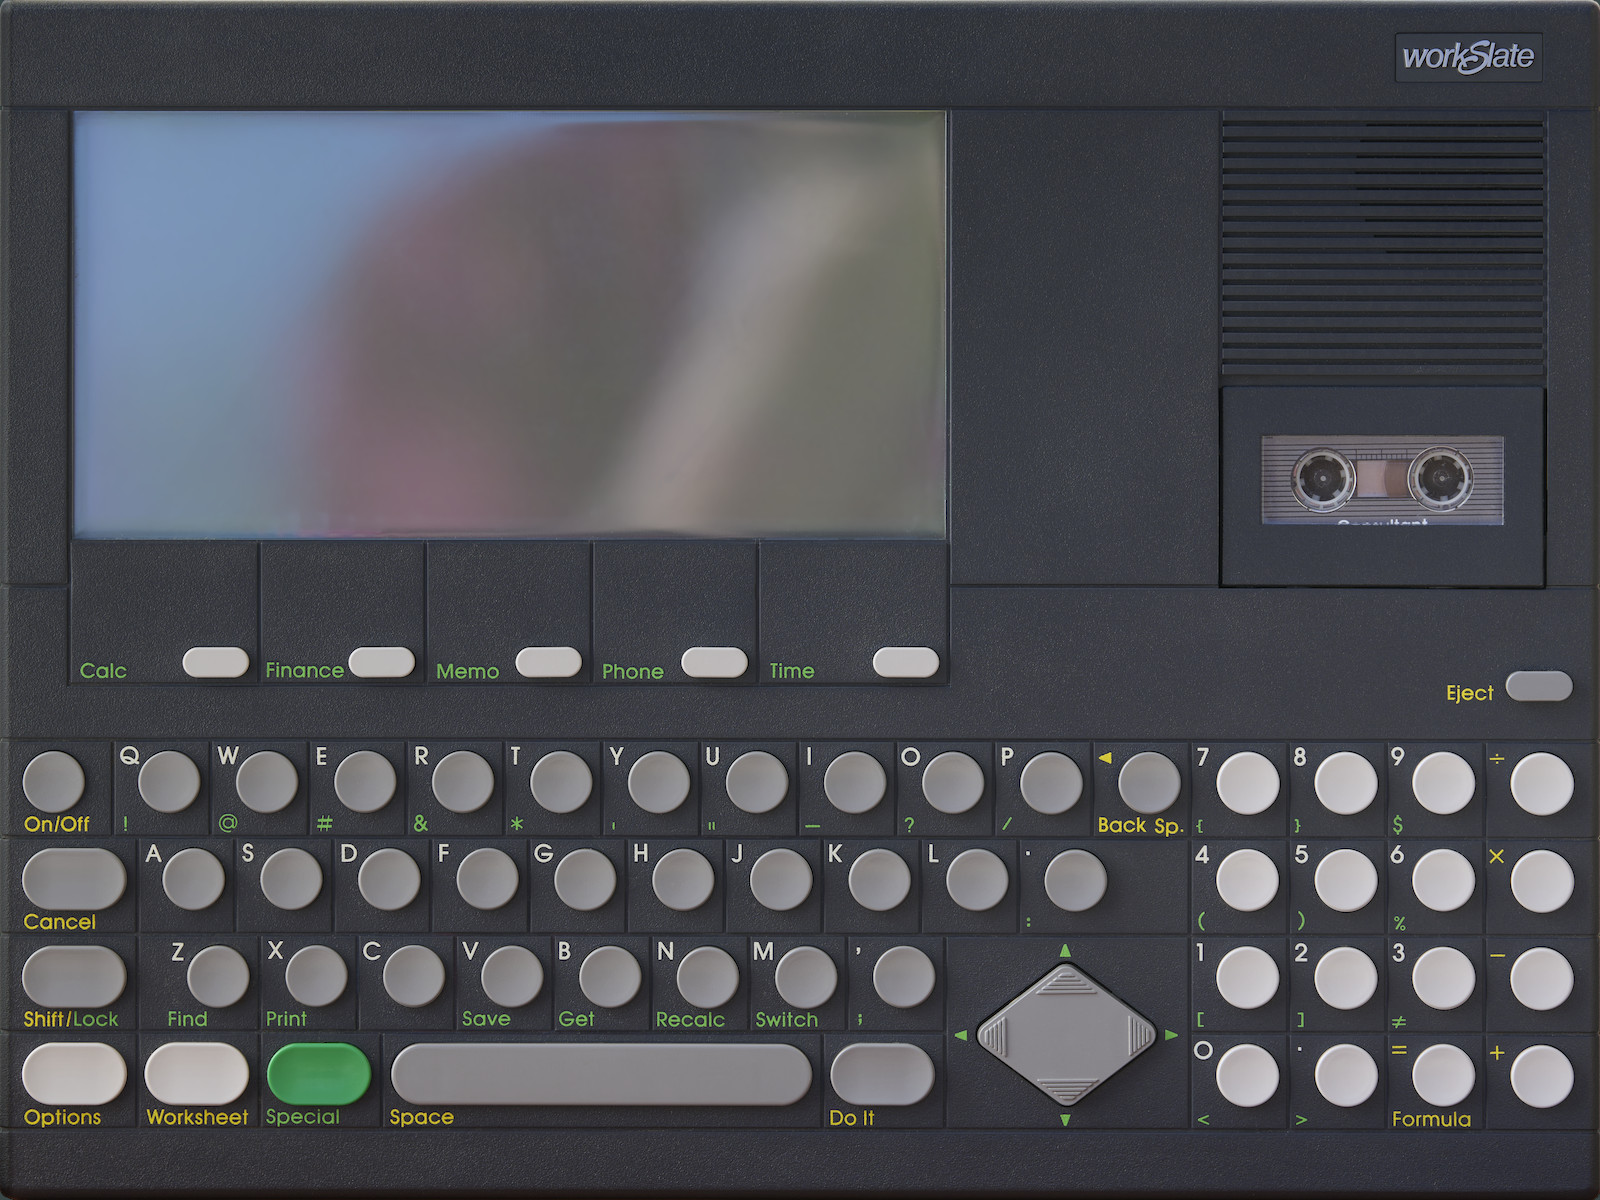
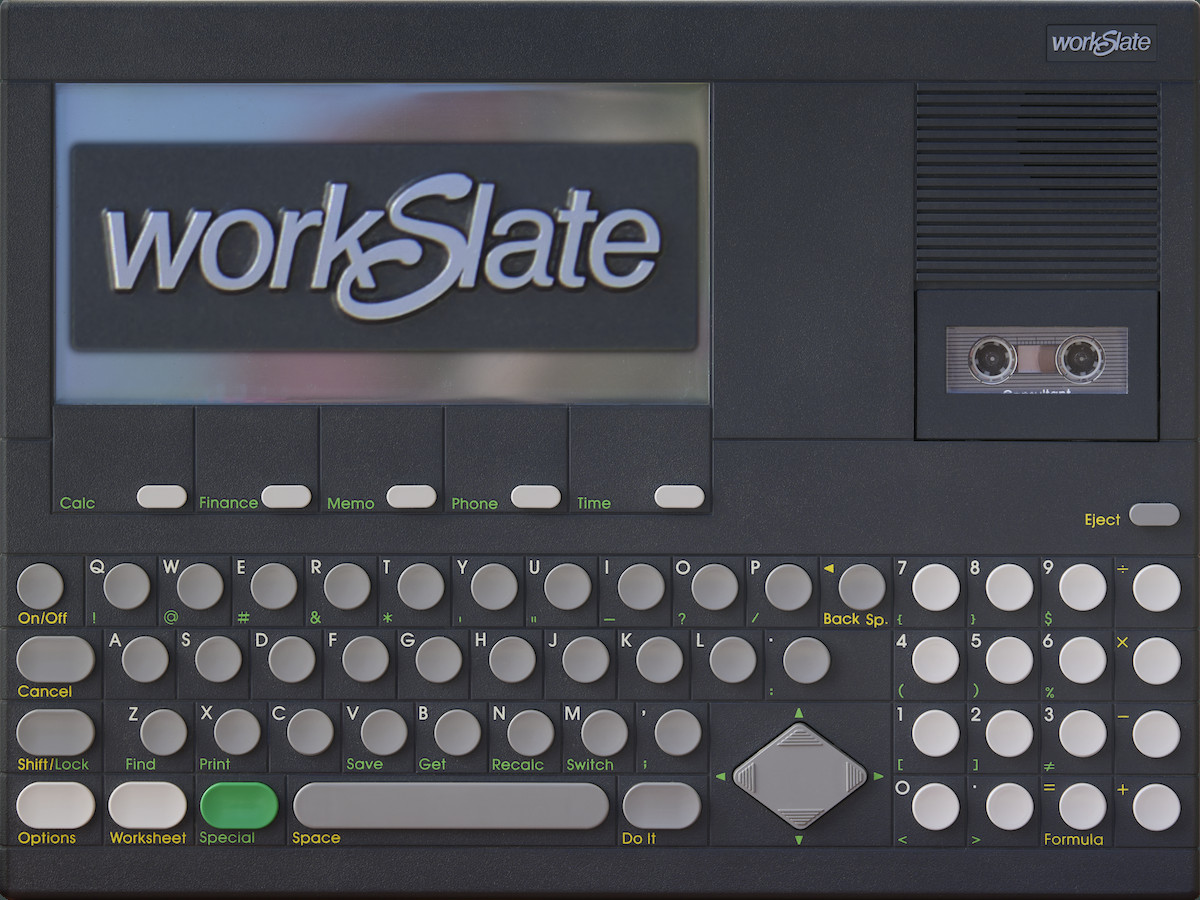
added on-screen keyboard, new background graphic

Changed region(s): [[0.0308, 0.1556, 0.5858, 0.4044], [0.0308, 0.7467, 0.0617, 0.7778]]

diff --git a/workslate.js b/workslate.js
@@ -21,21 +21,21 @@ function fetchBuffer(p){
 }
 function __ZN8Graphics18draw_cursor_alwaysEv(){
 	var tmp0=0,tmp1=0,tmp2=0;
-	tmp0=HEAP32[301778]|0;
-	tmp1=HEAP32[280356]|0;
-	tmp2=HEAP32[280357]|0;
-	if((HEAP32[297681]|0)!==0)if((tmp0|0)!==0){
+	tmp0=HEAP32[302072]|0;
+	tmp1=HEAP32[280650]|0;
+	tmp2=HEAP32[280651]|0;
+	if((HEAP32[297975]|0)!==0)if((tmp0|0)!==0){
 		__ZN8Graphics8drawCharEiic(tmp1,tmp2,160);
 		return;
 	}
-	__ZN8Graphics8drawCharEiic(tmp1,tmp2,HEAP8[(tmp1<<4)+tmp2+1121432>>0]|0);
+	__ZN8Graphics8drawCharEiic(tmp1,tmp2,HEAP8[(tmp1<<4)+tmp2+1122608>>0]|0);
 }
 function __ZN8Graphics8drawCharEiic(Larg0,Larg1,Larg2){
 	var tmp0=null,tmp1=null,tmp2=0,tmp3=0,tmp4=0,tmp5=0,tmp6=0,tmp7=null,tmp8=null,tmp9=-0.,tmp10=0,tmp11=0;
-	__ZN8Graphics9canvasCtxE.setTransform(3.1666666666666665,0,0,3.2890625,72,113.2890625);
+	__ZN8Graphics9canvasCtxE.setTransform(2.3333333333333335,0,0,2.375,60,91);
 	tmp7=__ZN8Graphics9canvasCtxE;
-	tmp0=1115840|0;
-	tmp1=1117945|0;
+	tmp0=1117024|0;
+	tmp1=1119125|0;
 	tmp8=_cheerpCreate_ZN6client6StringC2EPKc((Larg2<<24>-16777216?HEAP8:HEAP8),Larg2<<24>-16777216?tmp0>>0:tmp1>>0);
 	tmp7.fillStyle=tmp8;
 	tmp2=Larg1<<3;
@@ -46,7 +46,7 @@ function __ZN8Graphics8drawCharEiic(Larg0,Larg1,Larg2){
 	tmp5=__imul(Larg2&127,6)|0;
 	tmp10=0;
 	a:while(1){
-		tmp11=HEAP8[tmp10+tmp5+1115044>>0]|0;
+		tmp11=HEAP8[tmp10+tmp5+1116256>>0]|0;
 		tmp9=(+(tmp10+tmp3|0));
 		tmp6=tmp11^tmp4;
 		tmp11=0;
@@ -83,44 +83,44 @@ function _cheerpCreate_ZN6client6StringC2EPKc(Larg0,Marg0){
 }
 function __ZN8Graphics16initializeCanvasEv(){
 	var tmp0=null,tmp1=0,tmp2=null,tmp3=null,tmp4=0;
-	tmp2=_cheerpCreate_ZN6client6StringC2EPKc(HEAP8,1115036>>0);
+	tmp2=_cheerpCreate_ZN6client6StringC2EPKc(HEAP8,1116208>>0);
 	tmp0=document.getElementById(tmp2);
 	__ZN8Graphics12canvas_widthE=~~ +tmp0.width;
 	__ZN8Graphics13canvas_heightE=~~ +tmp0.height;
-	tmp2=_cheerpCreate_ZN6client6StringC2EPKc(HEAP8,1082248>>0);
+	tmp2=_cheerpCreate_ZN6client6StringC2EPKc(HEAP8,1116188>>0);
 	__ZN8Graphics6canvasE=document.getElementById(tmp2);
 	__ZN8Graphics6canvasE.width=(+(__ZN8Graphics12canvas_widthE|0));
 	__ZN8Graphics6canvasE.height=(+(__ZN8Graphics13canvas_heightE|0));
-	tmp2=_cheerpCreate_ZN6client6StringC2EPKc(HEAP8,1049464>>0);
+	tmp2=_cheerpCreate_ZN6client6StringC2EPKc(HEAP8,1083404>>0);
 	tmp3=document.getElementById(tmp2);
 	tmp3.appendChild(__ZN8Graphics6canvasE);
 	tmp2=__ZN8Graphics6canvasE;
-	tmp3=_cheerpCreate_ZN6client6StringC2EPKc(HEAP8,1116680>>0);
+	tmp3=_cheerpCreate_ZN6client6StringC2EPKc(HEAP8,1117864>>0);
 	__ZN8Graphics9canvasCtxE=tmp2.getContext(tmp3);
 	__ZN8Graphics9canvasCtxE.drawImage(tmp0,0,0);
 	tmp2=__ZN8Graphics9canvasCtxE;
-	tmp3=_cheerpCreate_ZN6client6StringC2EPKc(HEAP8,1115840>>0);
+	tmp3=_cheerpCreate_ZN6client6StringC2EPKc(HEAP8,1117024>>0);
 	tmp2.fillStyle=tmp3;
-	__ZN8Graphics9canvasCtxE.fillRect(72,111,874,421);
+	__ZN8Graphics9canvasCtxE.fillRect(54,83,656,320);
 	tmp4=0;
 	while(1){
 		tmp1=tmp4<<4;
-		HEAP8[tmp1+1121432>>0]=32;
-		HEAP8[tmp1+1+1121432>>0]=32;
-		HEAP8[tmp1+2+1121432>>0]=32;
-		HEAP8[tmp1+3+1121432>>0]=32;
-		HEAP8[tmp1+4+1121432>>0]=32;
-		HEAP8[tmp1+5+1121432>>0]=32;
-		HEAP8[tmp1+6+1121432>>0]=32;
-		HEAP8[tmp1+7+1121432>>0]=32;
-		HEAP8[tmp1+8+1121432>>0]=32;
-		HEAP8[tmp1+9+1121432>>0]=32;
-		HEAP8[tmp1+10+1121432>>0]=32;
-		HEAP8[tmp1+11+1121432>>0]=32;
-		HEAP8[tmp1+12+1121432>>0]=32;
-		HEAP8[tmp1+13+1121432>>0]=32;
-		HEAP8[tmp1+14+1121432>>0]=32;
-		HEAP8[tmp1+15+1121432>>0]=32;
+		HEAP8[tmp1+1122608>>0]=32;
+		HEAP8[tmp1+1+1122608>>0]=32;
+		HEAP8[tmp1+2+1122608>>0]=32;
+		HEAP8[tmp1+3+1122608>>0]=32;
+		HEAP8[tmp1+4+1122608>>0]=32;
+		HEAP8[tmp1+5+1122608>>0]=32;
+		HEAP8[tmp1+6+1122608>>0]=32;
+		HEAP8[tmp1+7+1122608>>0]=32;
+		HEAP8[tmp1+8+1122608>>0]=32;
+		HEAP8[tmp1+9+1122608>>0]=32;
+		HEAP8[tmp1+10+1122608>>0]=32;
+		HEAP8[tmp1+11+1122608>>0]=32;
+		HEAP8[tmp1+12+1122608>>0]=32;
+		HEAP8[tmp1+13+1122608>>0]=32;
+		HEAP8[tmp1+14+1122608>>0]=32;
+		HEAP8[tmp1+15+1122608>>0]=32;
 		tmp4=tmp4+1|0;
 		if((tmp4|0)!==46)continue;
 		break;
@@ -130,14 +130,17 @@ function __ZN8Graphics14init_callbacksEv(){
 	var tmp0=null,tmp1=null;
 	tmp0=__ZN8Graphics9sim_frameEv;
 	+requestAnimationFrame(tmp0);
-	tmp0=_cheerpCreate_ZN6client6StringC2EPKc(HEAP8,1115812>>0);
+	tmp0=_cheerpCreate_ZN6client6StringC2EPKc(HEAP8,1116216>>0);
 	tmp1=__ZN8Graphics14keyDownHandlerEPN6client13KeyboardEventE;
 	document.addEventListener(tmp0,tmp1);
-	tmp0=_cheerpCreate_ZN6client6StringC2EPKc(HEAP8,1115820>>0);
+	tmp0=_cheerpCreate_ZN6client6StringC2EPKc(HEAP8,1116224>>0);
 	tmp1=__ZN8Graphics12keyUpHandlerEPN6client13KeyboardEventE;
 	document.addEventListener(tmp0,tmp1);
-	tmp0=_cheerpCreate_ZN6client6StringC2EPKc(HEAP8,1115828>>0);
+	tmp0=_cheerpCreate_ZN6client6StringC2EPKc(HEAP8,1116232>>0);
 	tmp1=__ZN8Graphics15keyPressHandlerEPN6client13KeyboardEventE;
+	document.addEventListener(tmp0,tmp1);
+	tmp0=_cheerpCreate_ZN6client6StringC2EPKc(HEAP8,1116244>>0);
+	tmp1=__ZN8Graphics16mouseDownHandlerEPN6client10MouseEventE;
 	document.addEventListener(tmp0,tmp1);
 }
 function __ZN8Graphics9sim_frameEv(){
@@ -155,21 +158,21 @@ function __ZN8Graphics9sim_frameEv(){
 		if(Lconv10-tmp6>>>0<=500)if(!(tmp7))break a;
 		__ZZN8Graphics22blink_cursor_if_neededEyE17prev_milliseconds$p0=Lconv10;
 		__ZZN8Graphics22blink_cursor_if_neededEyE17prev_milliseconds$p1=Lconv;
-		tmp6=HEAP32[301778]|0;
-		HEAP32[301778]=(tmp6|0)===0?1:0;
-		if((HEAP32[297681]|0)!==0){
-			tmp7=HEAP32[280356]|0;
-			tmp2=HEAP32[280357]|0;
+		tmp6=HEAP32[302072]|0;
+		HEAP32[302072]=(tmp6|0)===0?1:0;
+		if((HEAP32[297975]|0)!==0){
+			tmp7=HEAP32[280650]|0;
+			tmp2=HEAP32[280651]|0;
 			if((tmp6|0)===0){
 				tmp6=160;
 			}else{
-				tmp6=HEAP8[(tmp7<<4)+tmp2+1121432>>0]|0;
+				tmp6=HEAP8[(tmp7<<4)+tmp2+1122608>>0]|0;
 			}
 			__ZN8Graphics8drawCharEiic(tmp7,tmp2,tmp6);
 		}
 	}
 	Lconv=___udivti3(Lconv10,Lconv)|0;
-	Lconv10=HEAP32[280542]|0;
+	Lconv10=HEAP32[280836]|0;
 	if(((__ZZN8Graphics21advance_rtc_if_neededEyE12prev_seconds$p0|0)^Lconv|(__ZZN8Graphics21advance_rtc_if_neededEyE12prev_seconds$p1|0)^Lconv10|0)!==0){
 		__Z10rtc_updateP8timespec();
 		__ZZN8Graphics21advance_rtc_if_neededEyE12prev_seconds$p0=Lconv;
@@ -588,6 +591,43 @@ function __ZN8Graphics15keyPressHandlerEPN6client13KeyboardEventE(Larg0){
 		__Z13push_kbd_fifoj(0);
 	}
 }
+function __ZN8Graphics16mouseDownHandlerEPN6client10MouseEventE(Larg0){
+	var tmp0=-0.,tmp1=-0.,tmp2=-0.,tmp3=-0.,tmp4=0,Lkeylookup$poptgep$poptgep$poptgepsqueezed=0;
+	if(((getKeyboardActive())|0)!==0){
+		tmp0=+Larg0.offsetX;
+		tmp1=+Larg0.offsetY;
+		tmp4=0;
+		while(1){
+			if((tmp4|0)!==72){
+				Lkeylookup$poptgep$poptgep$poptgepsqueezed=(tmp4<<4)+1049312|0;
+				tmp2=tmp0-(+(HEAP32[Lkeylookup$poptgep$poptgep$poptgepsqueezed>>2]|0));
+				tmp3=tmp1-(+(HEAP32[4+Lkeylookup$poptgep$poptgep$poptgepsqueezed>>2]|0));
+				if(tmp2*tmp2+tmp3*tmp3<(+(HEAP32[8+Lkeylookup$poptgep$poptgep$poptgepsqueezed>>2]|0))){
+					Lkeylookup$poptgep$poptgep$poptgepsqueezed=HEAP32[12+Lkeylookup$poptgep$poptgep$poptgepsqueezed>>2]|0;
+				}else{
+					Lkeylookup$poptgep$poptgep$poptgepsqueezed=0;
+				}
+				if((Lkeylookup$poptgep$poptgep$poptgepsqueezed|0)===0){
+					tmp4=tmp4+1|0;
+					continue;
+				}
+				if(Larg0.shiftKey){
+					__Z13push_kbd_fifoj(65536);
+					tmp4=65536;
+				}else{
+					tmp4=0;
+				}
+				if(Larg0.altKey){
+					tmp4|=131072;
+					__Z13push_kbd_fifoj(tmp4);
+				}
+				__Z13push_kbd_fifoj(tmp4|Lkeylookup$poptgep$poptgep$poptgepsqueezed);
+				__Z13push_kbd_fifoj(0);
+			}
+			break;
+		}
+	}
+}
 function __ZL17do_syscall_writevPK5iovecl(Lios,Llen){
 	var tmp0=null,tmp0o=0,Lmask$p1$pi=0,Lbuilder$psroa$p0$p047=null,L__ret$p049=0,Li$p048=0,Lios$poptgep=0,Li15$p054=0,L$psink$pi=0,Lconv$pi=0,Lcall$pi=null;
 	if(!(__ZGVZL17do_syscall_writevPK5ioveclE4curr|0)){
@@ -654,7 +694,7 @@ function __ZL17do_syscall_writevPK5iovecl(Lios,Llen){
 	}else{
 		L__ret$p049=0;
 	}
-	Lcall$pi=_cheerpCreate_ZN6client6StringC2EPKc(HEAP8,1117632>>0);
+	Lcall$pi=_cheerpCreate_ZN6client6StringC2EPKc(HEAP8,1118812>>0);
 	Lbuilder$psroa$p0$p047=Lbuilder$psroa$p0$p047.split(Lcall$pi);
 	Li$p048=Lbuilder$psroa$p0$p047.length;
 	if((Li$p048|0)>1){

diff --git a/workslate.html b/workslate.html
@@ -94,6 +94,7 @@
     <!-- Tab Content - simulator -->
     <div id="simulator_tab" class="tabcontent">
       <br>
+      <strong>Warning: this simulator has calculation errors</strong>
       <!-- The WASM will attach the canvas here (to "simulator_tab") -->
     </div>
 
@@ -146,7 +147,12 @@
       </ul> </p>
 
       <br><h2>Using the Simulator</h2>
-      <p>You can't click on the keys yet, so use these substitutions on your keyboard to control the WorkSlate:
+      <p>To enter text, you can click the on-screen keyboard:
+      <ul>
+         <li>The on/off, <strong style="bold;color:#d3c539">Shift/</strong><strong style="bold;color:#7bb35b">Lock</strong>, <strong style="bold;color:#7bb35b">Special</strong> keys are not clickable yet.
+           Use your keyboard's shift (shift-click) for <strong style="bold;color:#d3c539">Shift</strong>, or use Alt (alt-click) for <strong style="bold;color:#7bb35b">Special</strong>.</li>
+      </ul>
+      Or use your regular keyboard:
       <ul>
          <li>Press F1-F5 for the soft keys (labeled <strong style="bold;color:#7bb35b">Calc</strong>, <strong style="bold;color:#7bb35b">Finance</strong>, 
              <strong style="bold;color:#7bb35b">Memo</strong>, <strong style="bold;color:#7bb35b">Phone</strong>, and <strong style="bold;color:#7bb35b">Time</strong>)</li>
@@ -195,16 +201,16 @@
       If the simulation seems unrepsonsive, it's probably because the computer has gone to sleep
       after a few minutes of inactivity. This isn't emulated properly, so screen will still display.
       The <strong style="bold;color:#d3c539">On/Off</strong> button isn't emulated yet, so you'll have to reload the webpage & start again.<br><br>
-      The tape (load and save), serial port, and printer are not emulated yet.<br>
+      The tape (load and save), serial port, and printer are not emulated yet.  The eject button is purely mechanical.<br>
 
       <br><h2>Simulator Bugs</h2>
       <p>Two issues show up in the top status line:
         <ul>
+          <li>Math is not correct!  It's mostly right, but has errors I'm tracking down.</li>
           <li>I think the percentage number is memory usage, but obviously some calculation is not working correctly and it fluctuates.</li>
           <li>There is an unknown character displayed as a checkerboard.  This character only shows up on the simulator;
               I haven't been able to get it to display on a real machine.  I don't know what it is supposed to mean.</li>
         </ul>
-      Also, there are some screen artifacts due to the way HTML5 renders anti-aliased lines.
       </p>
 
       <br><h2>Copyright</h2>
